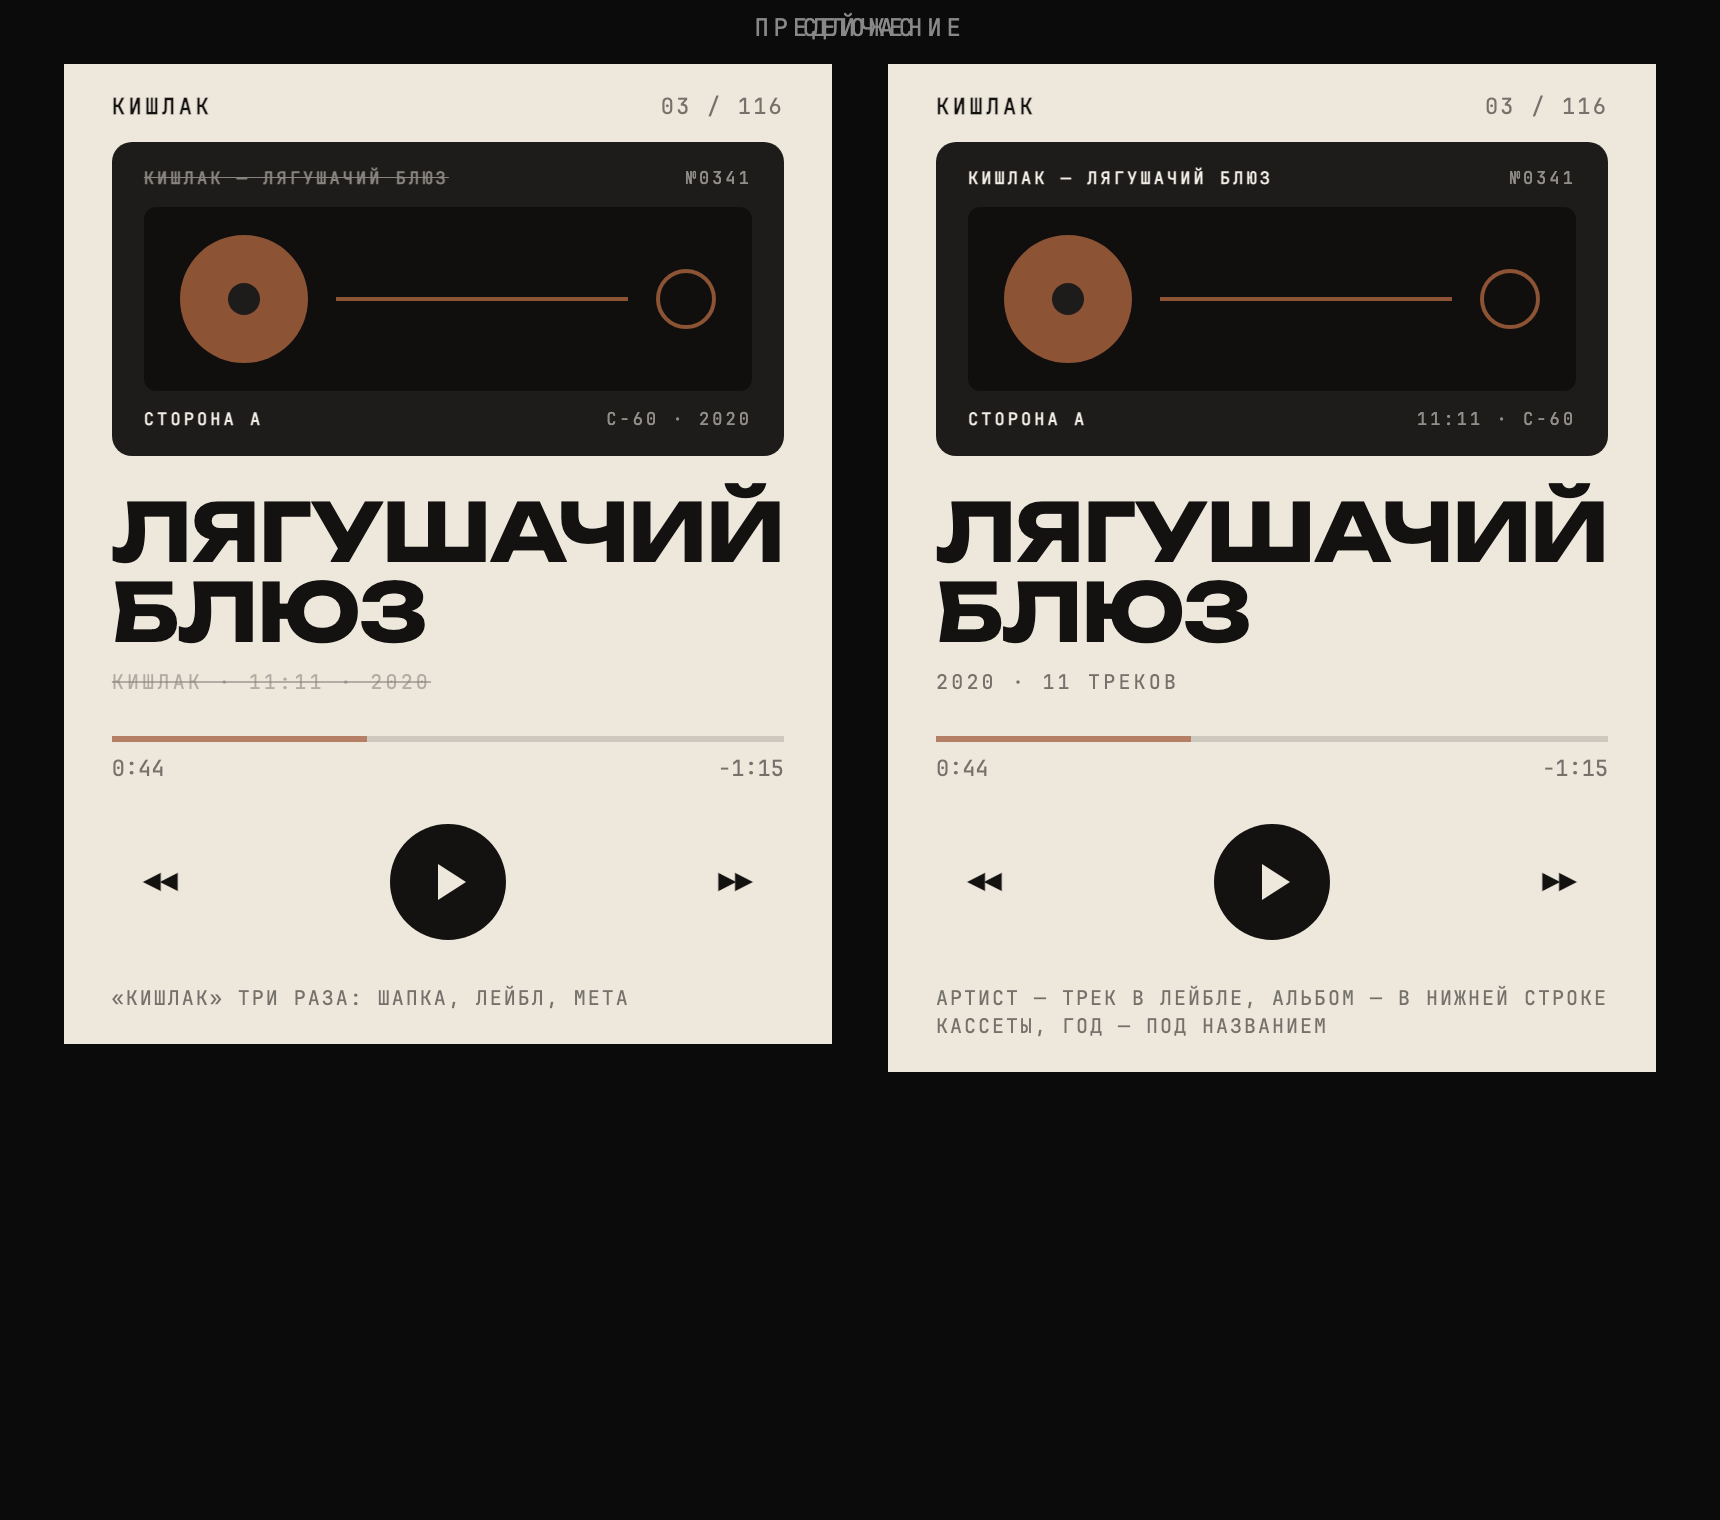
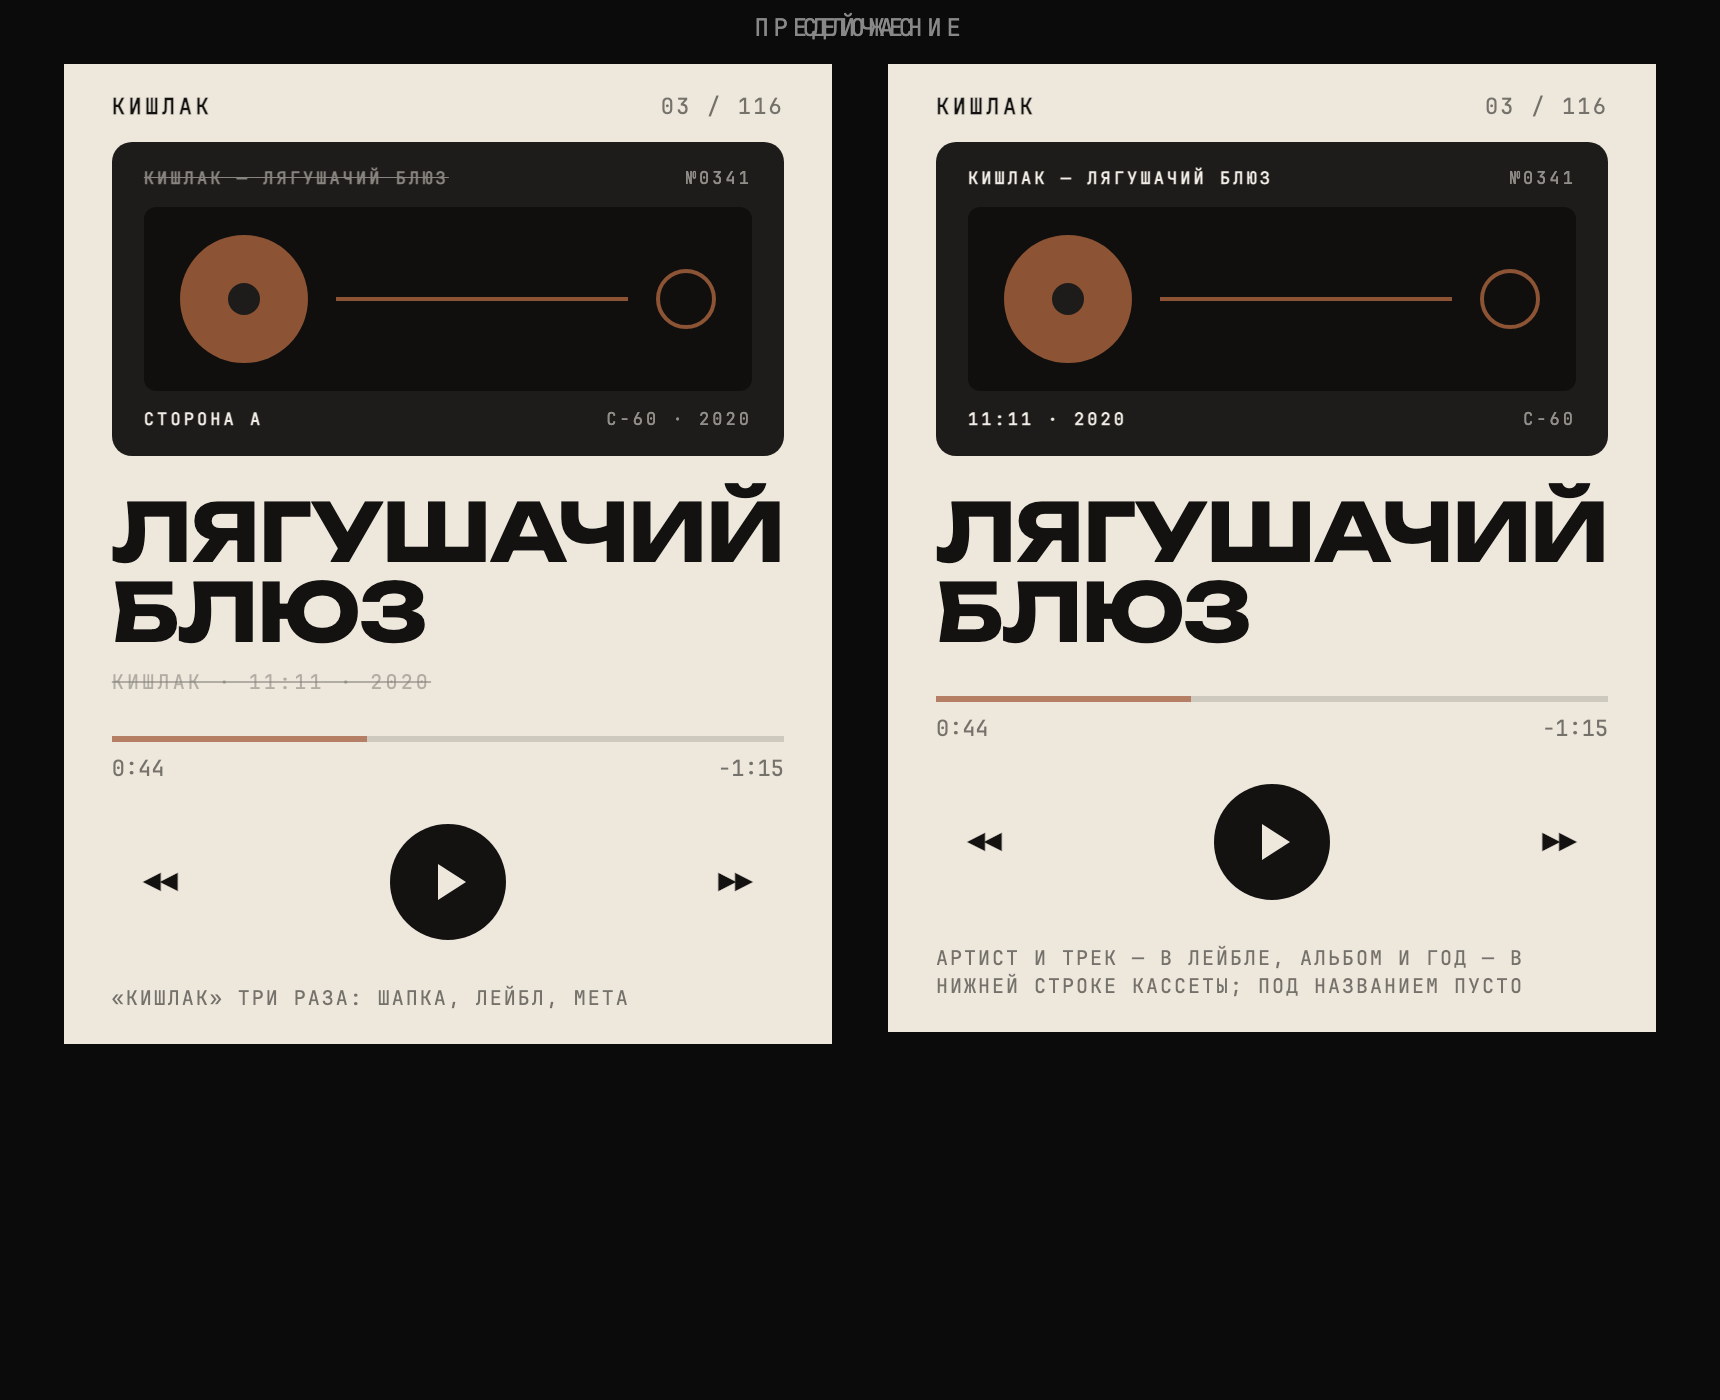
design: альбом и год в нижней строке кассеты, строка под названием убрана

diff --git a/design/mock-2026-11-02/index.html b/design/mock-2026-11-02/index.html
@@ -64,14 +64,13 @@
     <div class="cassette">
       <div class="cass-row"><span class="t">КИШЛАК — ЛЯГУШАЧИЙ БЛЮЗ</span><span class="n">№0341</span></div>
       <div class="window"><div class="reel-full"><div class="hub"></div></div><div class="tape"></div><div class="reel-empty"></div></div>
-      <div class="cass-row"><span class="t">СТОРОНА A</span><span class="n">11:11 · C-60</span></div>
+      <div class="cass-row"><span class="t">11:11 · 2020</span><span class="n">C-60</span></div>
     </div>
     <div class="title">Лягушачий блюз</div>
-    <div class="meta">2020 · 11 ТРЕКОВ</div>
     <div class="bar"><i></i></div>
     <div class="times"><span>0:44</span><span>-1:15</span></div>
     <div class="transport"><span class="tbtn">◀◀</span><div class="pbtn"><div class="tri"></div></div><span class="tbtn">▶▶</span></div>
-    <div class="note">артист — трек в лейбле, альбом — в нижней строке кассеты, год — под названием</div>
+    <div class="note">артист и трек — в лейбле, альбом и год — в нижней строке кассеты; под названием пусто</div>
   </div>
 </body>
 </html>

diff --git a/docs/design/screens.md b/docs/design/screens.md
@@ -96,8 +96,8 @@
 |---|---|
 | Шапка | `КИШЛАК` — бренд, крупно и один раз |
 | Лейбл кассеты | `КИШЛАК — НАЗВАНИЕ ТРЕКА` + `№0341` (артист здесь уместен: это подпись кассеты, как на настоящей) |
-| Нижняя строка кассеты | `СТОРОНА A` слева, `НАЗВАНИЕ АЛЬБОМА · C-60` справа |
-| Под названием трека | `ГОД · N ТРЕКОВ` — без повторения артиста и альбома |
+| Нижняя строка кассеты | `НАЗВАНИЕ АЛЬБОМА · ГОД` слева, `C-60` справа |
+| Под названием трека | **ничего** — экран не дублирует то, что уже есть на кассете |
 | Профиль, шапка | ничего лишнего: ни «ПРОФИЛЬ», ни «С НОЯБРЯ» — дата титула уходит в блок титула мелкой подписью |
 
 Макет до/после: `design/mock-2026-11-02/preview.png`.
